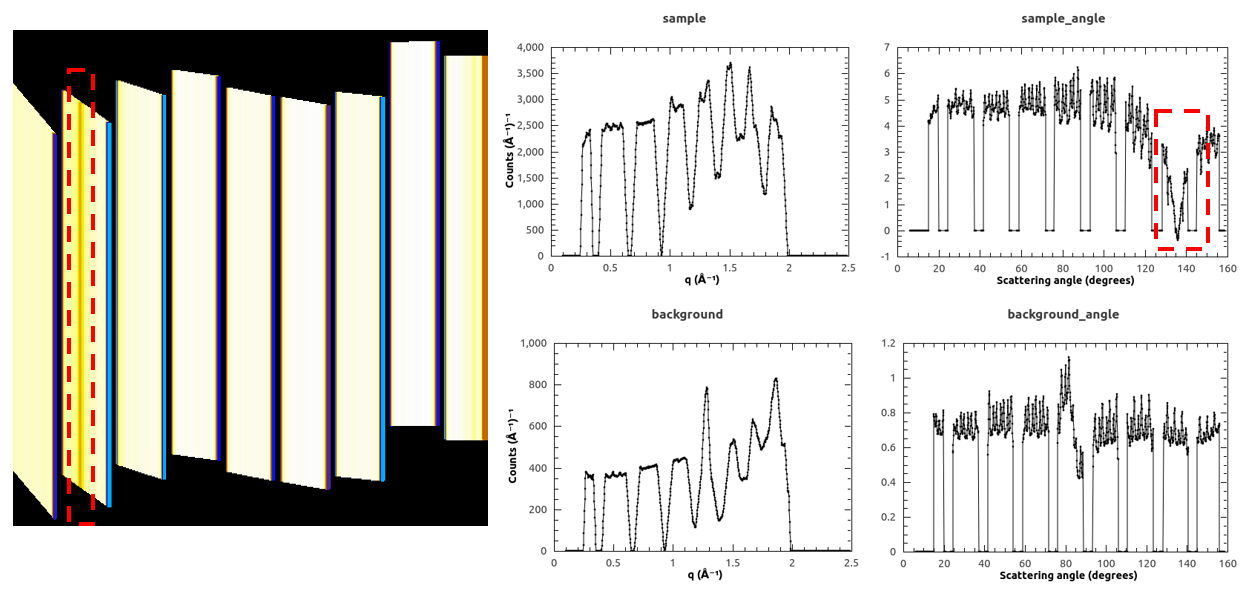
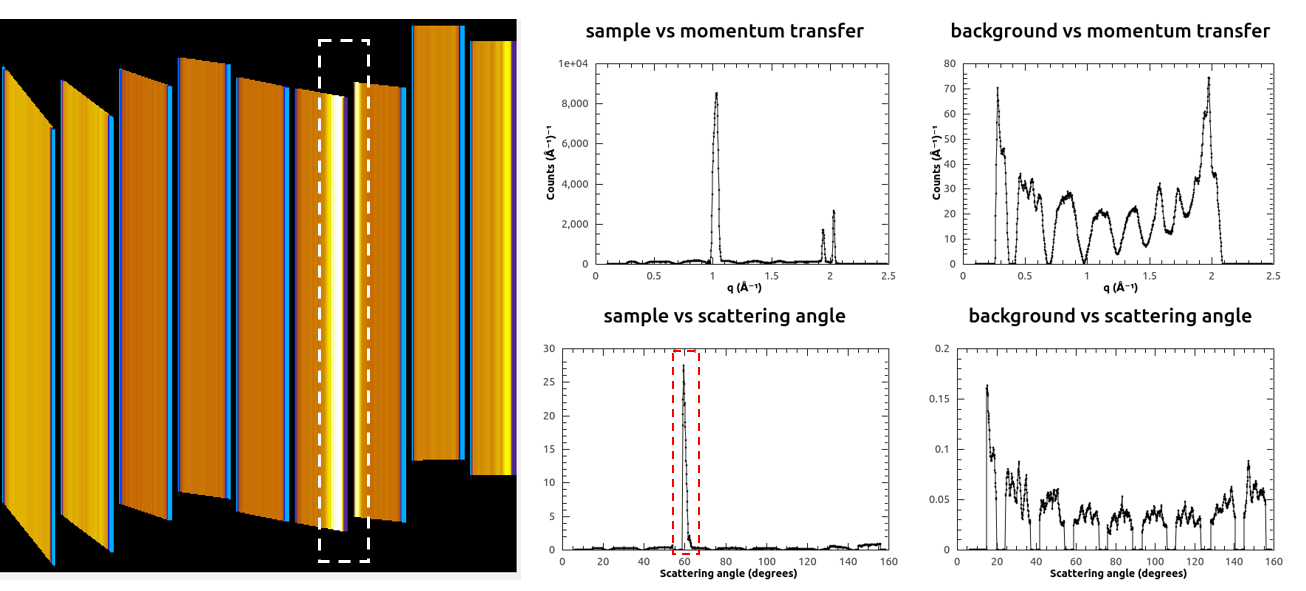
Refs #23380 use new set of run numbers for doc example

diff --git a/docs/source/algorithms/BASISPowderDiffraction-v1.rst b/docs/source/algorithms/BASISPowderDiffraction-v1.rst
@@ -56,17 +56,15 @@ Usage
 .. code-block:: python
 
     from mantid.simpleapi import BASISPowderDiffraction
-    BASISPowderDiffraction(RunNumbers='77754',
-                           OutputWorkspace='sample',
-                           BackgroundRuns='79745',
-                           BackgroundScale=0.80,
+    BASISPowderDiffraction(RunNumbers='74799',
+                           OutputWorkspace='powder',
+                           BackgroundRuns='75527',
                            OutputBackground='background'
-                           VanadiumRuns='78378')
-
+                           VanadiumRuns='64642')
 .. figure:: /images/BASISPowderDiffraction.png
 
-The color image shows the nine diffraction detectors with intensities in a
-log-scale. The second detector from the left features a sharp dip in intensity.
+The color image shows the nine diffraction detectors with a Bragg peak spilling
+intensity on the edges of two tubes at a scattering angle of 60 degrees.
 
 .. categories::
 
